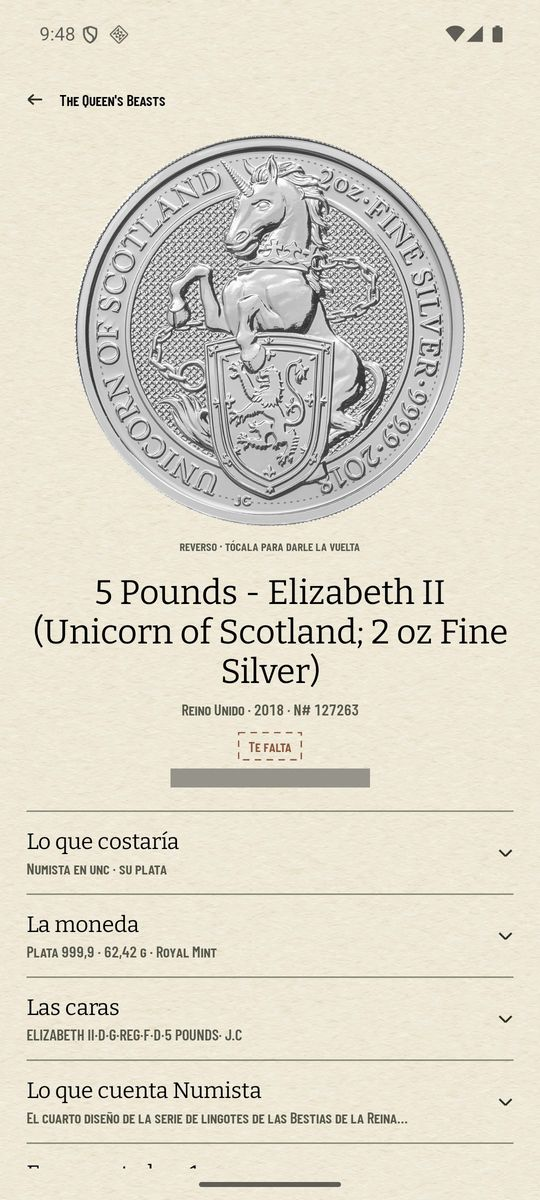
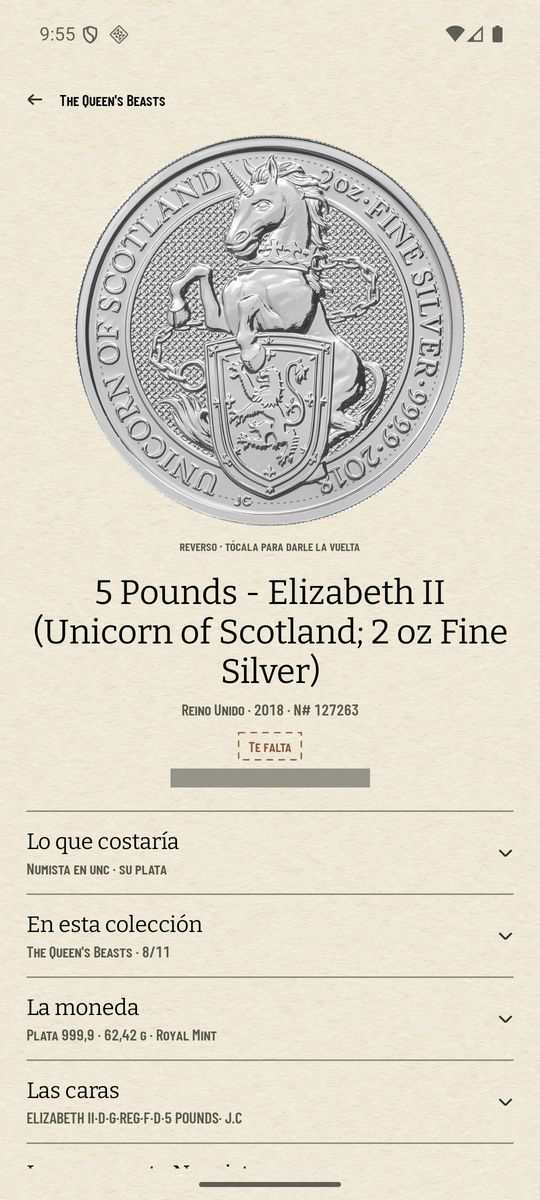
feat: el hueco nombra la lámina desde la que se abrió y la dibuja en miniatura (#643)
Ninguna colección reclama un hueco por sus piezas (#635), así que la ficha
de un hueco no tenía «En esta colección» y perdía la lámina en miniatura,
justo donde más ayuda. Abierto desde su lámina, ahora la nombra con
«· aquí» y la dibuja con su casilla rodeada y su recuento. Decidido por
Jose en el PR. ADR 0026 §13.

Changed region(s): [[0.0593, 0.8325, 0.7407, 0.9558], [0.0593, 0.74, 0.4148, 0.8017], [0.0889, 0.0, 0.1185, 0.0308]]

diff --git a/app/src/test/kotlin/com/jenarvaezg/coindex/ui/ficha/CoinFichaSubjectTest.kt b/app/src/test/kotlin/com/jenarvaezg/coindex/ui/ficha/CoinFichaSubjectTest.kt
@@ -14,6 +14,10 @@ import com.jenarvaezg.coindex.domain.PrintedSide
 import com.jenarvaezg.coindex.domain.SilverSpot
 import com.jenarvaezg.coindex.domain.TypeMeta
 import com.jenarvaezg.coindex.domain.gramsToOunces
+import com.jenarvaezg.coindex.ui.CardDestination
+import com.jenarvaezg.coindex.ui.DrawnCell
+import com.jenarvaezg.coindex.ui.PlateSubject
+import com.jenarvaezg.coindex.ui.shelf.CoinClaim
 import kotlinx.serialization.json.Json
 import kotlinx.serialization.json.jsonObject
 import java.time.LocalDate
@@ -195,6 +199,58 @@ class CoinFichaSubjectTest {
         assertTrue(cost.rungs[0].greatest)
     }
 
+    /**
+     * No collection claims a hole by its pieces (#635), but the lámina it was opened from holds its
+     * casilla: the screen names it and draws it in miniature, the casilla marked (#643).
+     */
+    @Test
+    fun `a hole opened from its lamina names it and draws it with the casilla marked`() {
+        val beasts = CardDestination.Plate("queens-beasts")
+        val subject = coinFichaSubject(
+            state = state(UNICORN, items = emptyList()),
+            request = CoinFichaRequest(
+                typeId = 127_263,
+                casilla = CasillaOrigin(year = 2018, missing = true),
+            ),
+            bodies = bodies(127_263),
+            here = beasts,
+            origin = OriginPlate(name = "The Queen's Beasts", plate = queensBeasts()),
+            book = PriceBook(),
+            settled = true,
+            nowMillis = NOW,
+        )
+
+        val claims = subject.section<ClaimsSection>()
+        assertEquals("En esta colección", claims.title)
+        assertEquals(
+            listOf(FichaClaim(CoinClaim("The Queen's Beasts", beasts), here = true)),
+            claims.claims,
+        )
+        val strip = assertNotNull(claims.strip)
+        assertEquals(listOf(false, true), strip.cells.map { it.here })
+        assertEquals("1/2", strip.count)
+        assertEquals("The Queen's Beasts · 1/2", claims.summary)
+    }
+
+    @Test
+    fun `a hole opened from monedas or the wish list names no collection`() {
+        val subject = coinFichaSubject(
+            state = state(UNICORN, items = emptyList()),
+            request = CoinFichaRequest(
+                typeId = 127_263,
+                casilla = CasillaOrigin(year = 2018, missing = true),
+            ),
+            bodies = bodies(127_263),
+            here = null,
+            origin = null,
+            book = PriceBook(),
+            settled = true,
+            nowMillis = NOW,
+        )
+
+        assertNull(subject.sectionOrNull<ClaimsSection>())
+    }
+
     /** The edge is read, not drawn: Numista's thicknesses can't hold a drawing to scale (#644). */
     @Test
     fun `the edge is text among the faces, with its legend and its photograph`() {
@@ -270,6 +326,25 @@ class CoinFichaSubjectTest {
         settled = settled,
         nowMillis = NOW,
     )
+
+    /** Two casillas, the lion owned and the unicorn empty. */
+    private fun queensBeasts() = PlateSubject(
+        catalogId = "queens-beasts",
+        title = "The Queen's Beasts 2 oz",
+        source = "https://example.org",
+        printedSide = PrintedSide.Reverse,
+        entries = emptyList(),
+        cells = listOf(
+            casilla("lion", 127_000, "2016", missing = false),
+            casilla("unicorn", 127_263, "2018", missing = true),
+        ),
+        ratio = "1/2",
+        complete = false,
+        landingCell = 0,
+    )
+
+    private fun casilla(id: String, typeId: Int, year: String, missing: Boolean) =
+        DrawnCell(id, id, typeId, footnote = null, year, owned = !missing, missing = missing)
 
     private fun request(casilla: CasillaOrigin? = null) =
         CoinFichaRequest(typeId = 10_340, side = PrintedSide.Reverse, casilla = casilla)

diff --git a/app/src/main/kotlin/com/jenarvaezg/coindex/ui/ficha/CoinFichaSubject.kt b/app/src/main/kotlin/com/jenarvaezg/coindex/ui/ficha/CoinFichaSubject.kt
@@ -23,6 +23,7 @@ import com.jenarvaezg.coindex.ui.coinFichaIdentity
 import com.jenarvaezg.coindex.ui.coinValue
 import com.jenarvaezg.coindex.ui.coverageLabel
 import com.jenarvaezg.coindex.ui.eurosLabel
+import com.jenarvaezg.coindex.ui.shelf.CoinClaim
 import com.jenarvaezg.coindex.ui.shelf.coinRowOf
 import com.jenarvaezg.coindex.ui.shelf.coinYearsLabel
 import java.time.LocalDate
@@ -53,7 +54,7 @@ const val MANY_ROWS: Int = 3
  * The coin's screen for [request] (#643).
  *
  * @param here the collection it was opened from, named among the claims but not linked (#635).
- * @param origin that collection's plate, drawn in miniature with the casilla marked.
+ * @param origin the plate it was opened from, drawn in miniature with the casilla marked.
  * @param settled whether the market has landed; until then no amount is shown (ADR 0028 §7).
  */
 fun coinFichaSubject(
@@ -61,7 +62,7 @@ fun coinFichaSubject(
     request: CoinFichaRequest,
     bodies: FichaBodies,
     here: CardDestination?,
-    origin: PlateSubject?,
+    origin: OriginPlate?,
     book: PriceBook,
     settled: Boolean,
     nowMillis: Long,
@@ -80,7 +81,10 @@ fun coinFichaSubject(
         HoleIssue(book.listings.issueOf(typeId, missing.year, listOfNotNull(missing.issueId)))
     }
     val hole = holeIssue?.let { holeLadder(typeId, it.issueId, meta, book.spot, book::of) }
-    val claims = fichaClaims(row.claims, here)
+    // No piece claims a hole for any collection (#635), but its lámina holds the casilla (#643).
+    val claims = fichaClaims(row.claims, here).ifEmpty {
+        listOfNotNull(origin?.let { FichaClaim(CoinClaim(it.name, it.destination), here = true) })
+    }
     return CoinFichaSubject(
         typeId = typeId,
         title = row.rawTitle,
@@ -95,13 +99,18 @@ fun coinFichaSubject(
         sections = listOfNotNull(
             hole?.let { costSection(prices.holeRungs(it, holeIssue.issueId)) },
             piecesSection(items, bodies.pieces, casilla, state.emissionLabels, prices),
-            claimsSection(claims, origin, typeId, casilla),
+            claimsSection(claims, origin?.plate, typeId, casilla),
             specSection(meta, details, zone),
             facesSection(details),
             commentsSection(details),
             relatedSection(details),
         ),
     )
+}
+
+/** The plate a coin's screen was opened from: its card name and the plate as drawn. */
+data class OriginPlate(val name: String, val plate: PlateSubject) {
+    val destination: CardDestination get() = CardDestination.Plate(plate.catalogId)
 }
 
 /** «Valor actual», with its origin when the pieces agree on one and its coverage when partial. */

diff --git a/app/src/main/kotlin/com/jenarvaezg/coindex/ui/ScreenReading.kt b/app/src/main/kotlin/com/jenarvaezg/coindex/ui/ScreenReading.kt
@@ -20,6 +20,7 @@ import com.jenarvaezg.coindex.domain.showcasePlates
 import com.jenarvaezg.coindex.domain.wishedSlots
 import com.jenarvaezg.coindex.ui.ficha.CoinFichaRequest
 import com.jenarvaezg.coindex.ui.ficha.CoinFichaSubject
+import com.jenarvaezg.coindex.ui.ficha.OriginPlate
 import com.jenarvaezg.coindex.ui.ficha.coinFichaSubject
 import com.jenarvaezg.coindex.ui.shelf.CoinRow
 import com.jenarvaezg.coindex.ui.shelf.coinRowOf
@@ -277,9 +278,11 @@ data class ScreenReading(
         request = request,
         bodies = bodies,
         here = here,
-        origin = (here as? CardDestination.Plate)
-            ?.let { plate(it.catalogId) as? PlateResult.Available }
-            ?.let { plateSubject(it, nowMillis = pricesArrivedAt) },
+        origin = (here as? CardDestination.Plate)?.let { destination ->
+            (plate(destination.catalogId) as? PlateResult.Available)
+                ?.let { plateSubject(it, nowMillis = pricesArrivedAt) }
+                ?.let { OriginPlate(catalogName(destination.catalogId) ?: it.title, it) }
+        },
         book = book,
         settled = settled,
         nowMillis = pricesArrivedAt,

diff --git a/app/src/test/kotlin/com/jenarvaezg/coindex/ui/ficha/FichaClaimsTest.kt b/app/src/test/kotlin/com/jenarvaezg/coindex/ui/ficha/FichaClaimsTest.kt
@@ -47,7 +47,7 @@ class FichaClaimsTest {
         )
     }
 
-    /** ADR 0026 §13. A hole is one, even opened from its own lámina. */
+    /** ADR 0026 §13. A hole opened from its lámina is named by the screen, not here (#643). */
     @Test
     fun `a coin no collection claims has no heading`() {
         assertNull(fichaClaimsHeading(fichaClaims(emptyList(), LAMINA.destination)))

diff --git a/docs/ux/implementacion-643/README.md b/docs/ux/implementacion-643/README.md
@@ -15,11 +15,12 @@ misma navegación en `main` y en esta rama.
 | ![antes](antes-fuerte.jpg) | ![después](despues-fuerte.jpg) | ![abajo](despues-fuerte-abajo.jpg) |
 
 **Unicorn of Scotland 2 oz (N#127263), hueco de «The Queen's Beasts».** «Te falta», «Te costaría» y
-sus dos peldaños: Numista en `unc` y la plata.
+sus dos peldaños: Numista en `unc` y la plata. Ninguna colección lo reclama por sus piezas (#635), pero
+nombra la lámina desde la que se abrió, con «· aquí» y la lámina en miniatura, su casilla rodeada.
 
-| antes (`main`) | después | «Lo que costaría» |
-| --- | --- | --- |
-| ![antes](antes-hueco.jpg) | ![después](despues-hueco.jpg) | ![coste](despues-hueco-coste.jpg) |
+| antes (`main`) | después | «Lo que costaría» | «En esta colección» |
+| --- | --- | --- | --- |
+| ![antes](antes-hueco.jpg) | ![después](despues-hueco.jpg) | ![coste](despues-hueco-coste.jpg) | ![colección](despues-hueco-coleccion.jpg) |
 
 **Cuatricentenario de Caracas (N#578835), desde Monedas.** «Volver» dice «Tipos», como la celda de la
 barra (#516). Sin cartón, porque no la reclama ninguna colección. La cartela se titula «La medalla».
@@ -81,8 +82,8 @@ El 100 pesetas de Franco, con la estrella ya sustituida:
 - **Importes tapados**: valores, precios, lo pagado, notas privadas y fotos propias llevan una franja
   gris, porque el repo es público. Las capturas sin tapar están en
   `/private/tmp/coindex-privado/ficha-643/`.
-- **El hueco no tiene «En esta colección»**, como la hoja de antes: el #635 decidió que a un hueco no
-  lo reclama ninguna colección, ni la lámina desde la que se abre. La maqueta sí la enseñaba.
+- **La lámina en miniatura dibuja sus huecos enteros** bajo la línea de puntos y no como fantasma,
+  porque a 32 dp quedan por debajo de `GHOST_MIN_DP` (ADR 0026 §15, #556).
 - **«Tipos» y no «Monedas»**: el issue pedía «Monedas», pero la celda que el padre toca dice «Tipos»
   desde el #516.
 - **La cartela y las caras llegan un instante después** que la moneda y las piezas, porque se leen

diff --git a/docs/adr/0026-the-shape-of-coindex-an-album-sheet.md b/docs/adr/0026-the-shape-of-coindex-an-album-sheet.md
@@ -433,7 +433,8 @@ the ficha's age, the refresh and «Ver en Numista ↗». Each piece prints its t
 greatest marked and every empty rung saying why; a hole prints its two. Those labels are printed
 per piece, against §5 clause 2, because a section shows at most three rows or one date's pieces, and
 only once the collector opens it. The coin's figure stays the sum of the greatest, and no total by
-source is printed (ADR 0028 §7). The edge is text among the
+source is printed (ADR 0028 §7). A hole, which no collection claims by its pieces (#635), names the
+lámina it was opened from, with «· aquí» and the lámina in miniature, its casilla marked. The edge is text among the
 faces, its photograph opened apart, and the thickness a row of the specification when the ficha has
 one. Neither is drawn: the mints never publish a thickness and Numista's are unsourced (#644), so a
 drawing to scale would claim a precision the data lacks. The new fields are read from the stored
